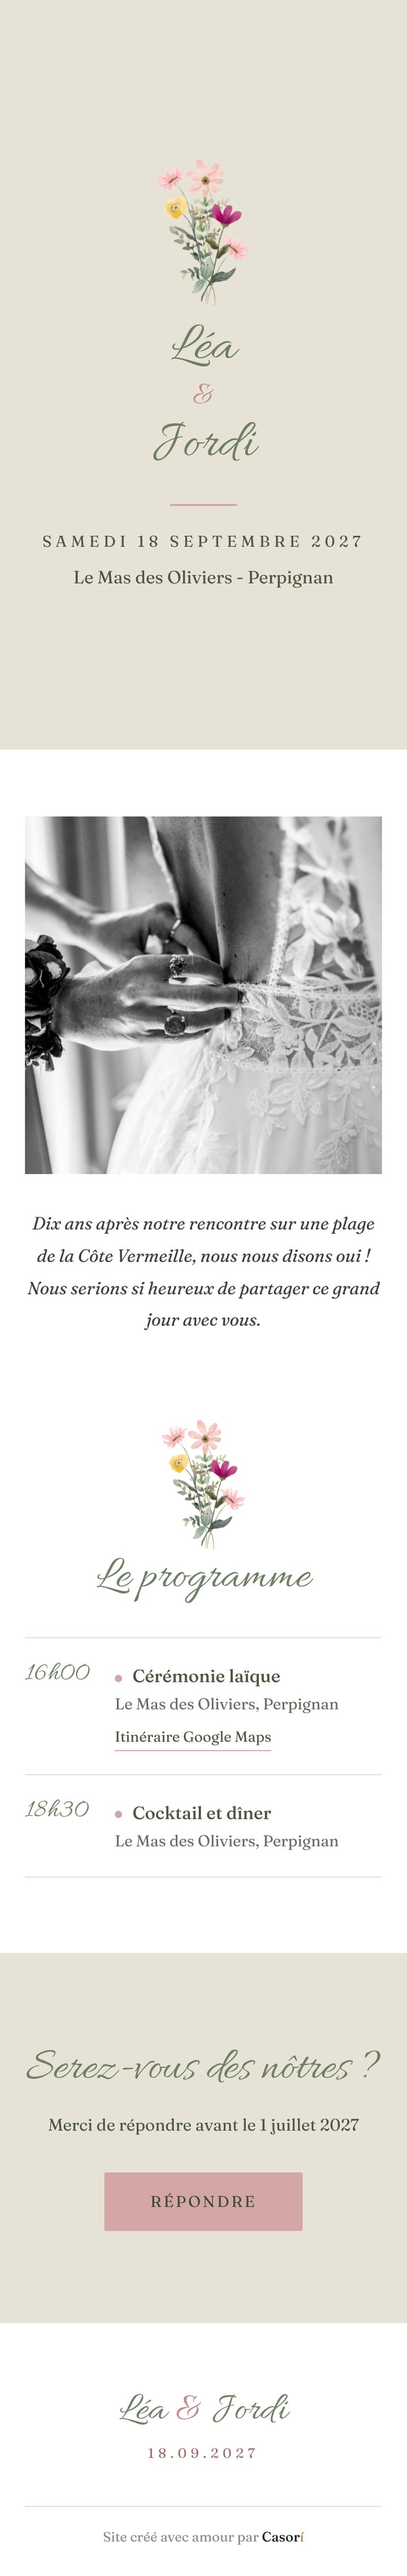
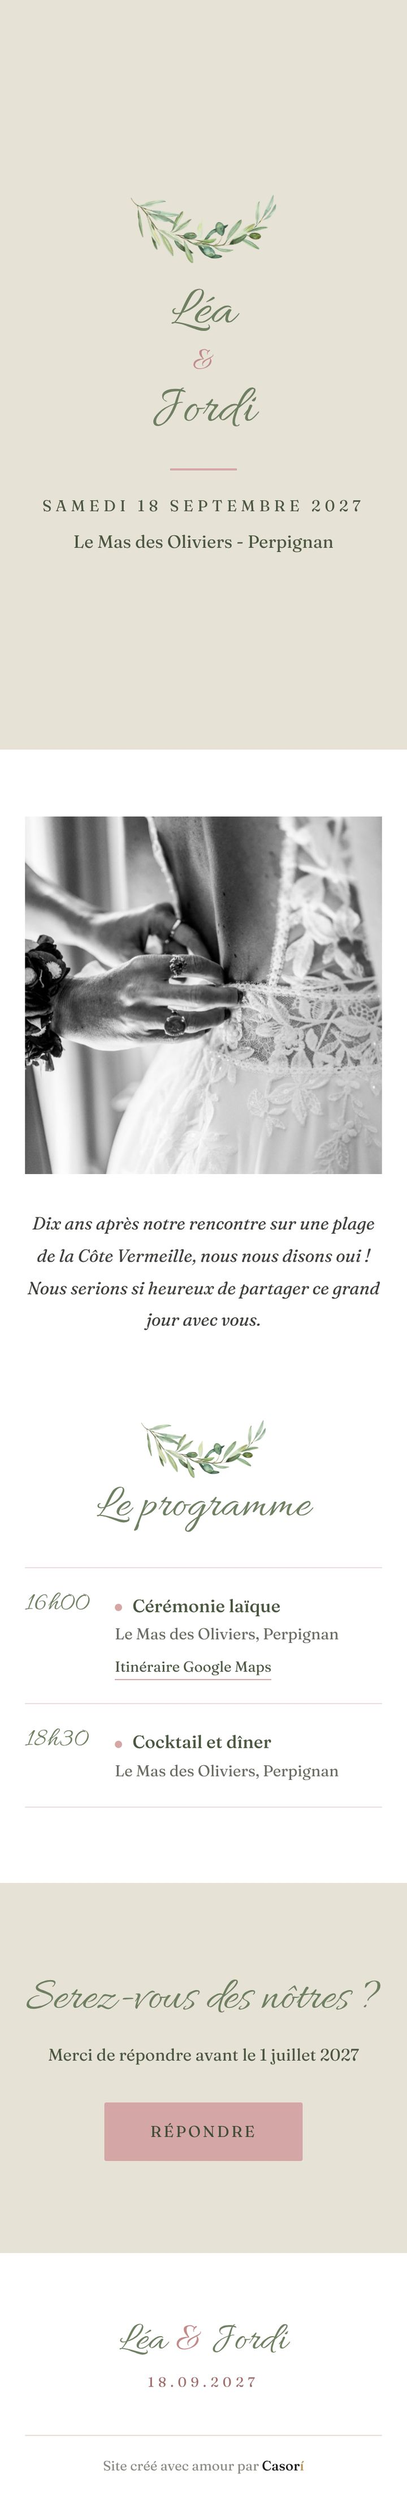
Page l'Atelier : un seul téléphone qui alterne les styles, palettes en pastilles, textes revus
Claude-Session: https://claude.ai/code/session_01CGjkqTZ9trMVEQQxVMtqEj

diff --git a/site-vitrine/atelier/index.html b/site-vitrine/atelier/index.html
@@ -35,7 +35,19 @@
         <a href="creer/" class="btn">Créer notre site</a>
       </div>
       <div class="at-hero-tel">
-        <div class="theme-ecran"><div class="theme-screen"><img src="assets/atelier-sauge.jpg" alt="Aperçu d'un site créé avec l'Atelier"></div></div>
+        <div class="theme-ecran"><div class="theme-screen at-diapo" id="at-diapo">
+          <img class="visible" src="assets/atelier-terracotta.jpg" alt="Site de l'Atelier, palette Terracotta et sable, motif bouquet" data-nom="Terracotta &amp; sable">
+          <img src="assets/atelier-sauge.jpg" alt="Site de l'Atelier, palette Sauge et rose ancien, motif olivier" data-nom="Sauge &amp; rose ancien" loading="lazy">
+          <img src="assets/atelier-mediterranee.jpg" alt="Site de l'Atelier, palette Méditerranée et ocre, motif bougainvillier" data-nom="Méditerranée &amp; ocre" loading="lazy">
+          <img src="assets/atelier-bordeaux.jpg" alt="Site de l'Atelier, palette Bordeaux et champagne, motif olivier" data-nom="Bordeaux &amp; champagne" loading="lazy">
+        </div></div>
+        <div class="at-pastilles" id="at-pastilles">
+          <button class="actif" aria-label="Terracotta et sable" style="--c1:#F1E6D8;--c2:#9A5434"></button>
+          <button aria-label="Sauge et rose ancien" style="--c1:#E7E2D6;--c2:#6F7F62"></button>
+          <button aria-label="Méditerranée et ocre" style="--c1:#E5EAEF;--c2:#2F4F6F"></button>
+          <button aria-label="Bordeaux et champagne" style="--c1:#F3ECE3;--c2:#6E1F2F"></button>
+        </div>
+        <p class="at-diapo-nom" id="at-diapo-nom">Terracotta &amp; sable</p>
       </div>
     </section>
 
@@ -53,13 +65,14 @@
     <section class="themes-sec">
       <div class="centre">
         <p class="surtitre">Vos couleurs, votre motif</p>
-        <p class="at-sous-titre">4 palettes au choix, ou vos propres couleurs. Tout le site s'accorde automatiquement.</p>
+        <p class="at-sous-titre">4 palettes au choix ou vos propres couleurs, 3 motifs au choix ou votre propre motif. Tout le site s'accorde automatiquement.</p>
       </div>
-      <div class="themes-grille at-styles">
-        <div class="theme"><div class="theme-ecran" tabindex="0"><div class="theme-screen"><img src="assets/atelier-sauge.jpg" alt="Palette Sauge et rose ancien"></div></div><p class="theme-nom">Sauge &amp; rose ancien</p></div>
-        <div class="theme"><div class="theme-ecran" tabindex="0"><div class="theme-screen"><img src="assets/atelier-terracotta.jpg" alt="Palette Terracotta et sable"></div></div><p class="theme-nom">Terracotta &amp; sable</p></div>
-        <div class="theme"><div class="theme-ecran" tabindex="0"><div class="theme-screen"><img src="assets/atelier-mediterranee.jpg" alt="Palette Méditerranée et ocre"></div></div><p class="theme-nom">Méditerranée &amp; ocre</p></div>
-        <div class="theme"><div class="theme-ecran" tabindex="0"><div class="theme-screen"><img src="assets/atelier-bordeaux.jpg" alt="Palette Bordeaux et champagne"></div></div><p class="theme-nom">Bordeaux &amp; champagne</p></div>
+      <div class="at-palettes">
+        <div><span class="at-rond" style="--c1:#E7E2D6;--c2:#6F7F62;--c3:#D4A6A6"></span>Sauge &amp; rose ancien</div>
+        <div><span class="at-rond" style="--c1:#F1E6D8;--c2:#9A5434;--c3:#D9A27E"></span>Terracotta &amp; sable</div>
+        <div><span class="at-rond" style="--c1:#E5EAEF;--c2:#2F4F6F;--c3:#D9A441"></span>Méditerranée &amp; ocre</div>
+        <div><span class="at-rond" style="--c1:#F3ECE3;--c2:#6E1F2F;--c3:#C9A97A"></span>Bordeaux &amp; champagne</div>
+        <div class="at-vos-couleurs"><span class="at-rond arc"></span>Vos propres couleurs</div>
       </div>
       <div class="at-motifs">
         <div><img src="modele/assets/motif-brin.webp" alt=""><span>Bouquet</span></div>
@@ -78,8 +91,8 @@
           <li>Votre photo et votre petit mot</li>
           <li>Le programme de la journée, jusqu'à 5 moments, avec les itinéraires</li>
           <li>Les réponses de vos invités via votre formulaire Google (modèle fourni)</li>
-          <li>4 palettes ou vos propres couleurs, 3 motifs</li>
-          <li>Une adresse à vos prénoms : mariages.casori.fr/vos-prenoms</li>
+          <li>4 palettes au choix ou vos propres couleurs, 3 motifs au choix ou votre propre motif (+10€)</li>
+          <li>Une adresse à vos prénoms : mariages.casori.fr/prenom-prenom</li>
           <li>En ligne jusqu'à 1 an après votre mariage</li>
           <li>Invisible sur Google : seuls vos invités le trouvent</li>
         </ul>
@@ -105,8 +118,8 @@
       <img src="assets/ingrid.jpg" alt="Ingrid Andriessens sur le stand Casorí">
       <div>
         <p class="surtitre">Derrière l'Atelier</p>
-        <p>Je m'appelle Ingrid. Je dessine chaque modèle de l'Atelier à Perpignan, et je vérifie personnellement chaque site avant sa mise en ligne.</p>
-        <p>Une question ? Écrivez-moi : je vous réponds avec plaisir.</p>
+        <p>Je m'appelle <b>Ingrid</b>, et je suis derrière Casorí, à Perpignan. Vous créez votre site en toute autonomie, mais <b>chaque site passe entre mes mains</b> : je le relis et le vérifie personnellement avant sa mise en ligne.</p>
+        <p>Une question ? <b>Écrivez-moi</b>, je vous réponds avec plaisir.</p>
         <a href="../contact.html" class="btn-ligne">Me contacter</a>
       </div>
     </section>
@@ -158,5 +171,6 @@
       <span>Photographies © <a href="https://nicolas-casas.fr/" target="_blank" rel="noopener noreferrer">Nicolas Casas</a></span>
     </div>
   </footer>
+  <script src="atelier.js"></script>
 </body>
 </html>

diff --git a/site-vitrine/atelier/atelier.css b/site-vitrine/atelier/atelier.css
@@ -14,14 +14,28 @@
 .at-prix-note { font-size: 13px; color: var(--gris-clair); }
 .at-hero-tel { display: flex; justify-content: center; }
 .at-hero-tel .theme-ecran { max-width: 250px; }
-/* le téléphone de l'en-tête défile tout seul, en boucle */
-.at-hero-tel .theme-screen img { animation: at-defile 26s ease-in-out 1.5s infinite alternate; }
-@keyframes at-defile { to { transform: translateY(calc(-100% + 100cqh)); } }
+/* le téléphone de l'en-tête : les 4 styles en fondu, chacun défile doucement */
+.at-hero-tel { flex-direction: column; align-items: center; }
+.at-diapo img { opacity: 0; transition: opacity 0.9s ease; }
+.at-diapo img.visible { opacity: 1; animation: at-defile 6.5s ease-in-out 0.6s forwards; }
+@keyframes at-defile { to { transform: translateY(calc(-45% + 100cqh)); } }
+.at-pastilles { display: flex; gap: 10px; margin-top: 18px; }
+.at-pastilles button {
+  width: 22px; height: 22px; border-radius: 50%; cursor: pointer; padding: 0;
+  border: 2px solid #fff; box-shadow: 0 0 0 1px var(--bordure);
+  background: linear-gradient(135deg, var(--c1) 50%, var(--c2) 50%);
+}
+.at-pastilles button.actif { box-shadow: 0 0 0 2px var(--or); }
+.at-diapo-nom { margin: 8px 0 0; font-family: var(--serif); font-size: 14px; color: var(--gris-texte); }
 
 .at-etapes { grid-template-columns: repeat(3, 1fr); max-width: 760px; margin-left: auto; margin-right: auto; }
 
 .at-sous-titre { font-size: 14px; color: var(--gris-texte); max-width: 440px; margin: 0 auto; }
-.at-styles { grid-template-columns: repeat(4, 1fr); max-width: 920px; }
+.at-palettes { display: flex; flex-wrap: wrap; justify-content: center; gap: 12px; max-width: 760px; margin: 28px auto 0; }
+.at-palettes > div { display: flex; align-items: center; gap: 10px; background: #fff; border: 1px solid var(--bordure); border-radius: 99px; padding: 8px 16px 8px 8px; font-size: 13px; }
+.at-rond { width: 30px; height: 30px; border-radius: 50%; flex: none; background: conic-gradient(var(--c2) 0 50%, var(--c3) 0 75%, var(--c1) 0); box-shadow: inset 0 0 0 1px var(--bordure); }
+.at-rond.arc { background: conic-gradient(#C0392B, #E0A458, #6F7F62, #2F4F6F, #8E5BB5, #C0392B); }
+.at-vos-couleurs { border-style: dashed !important; }
 
 .at-motifs {
   display: grid;
@@ -71,11 +85,13 @@
   max-width: 760px;
   margin: 40px auto;
   padding: 32px;
-  background: var(--creme-fonce);
+  background: #F4EADB;
+  border: 1px solid #E6D3B5;
   border-radius: 14px;
 }
 .at-derriere img { width: 100%; aspect-ratio: 1; object-fit: cover; border-radius: 50%; }
-.at-derriere p { margin: 0 0 12px; color: var(--gris-texte); }
+.at-derriere p { margin: 0 0 12px; color: var(--encre); }
+.at-derriere b { font-weight: 600; }
 .at-derriere .surtitre { margin-bottom: 10px; }
 
 .at-faq { max-width: 720px; margin: 0 auto; padding: 32px 0; }
@@ -95,7 +111,6 @@
   .at-intro { margin-left: auto; margin-right: auto; }
   .at-prix { justify-content: center; }
   .at-hero-tel .theme-ecran { max-width: 210px; }
-  .at-styles { grid-template-columns: repeat(2, 1fr); max-width: 460px; }
   .at-inclus { grid-template-columns: 1fr; }
   .at-derriere { grid-template-columns: 1fr; text-align: center; justify-items: center; }
   .at-derriere img { max-width: 180px; }
@@ -105,5 +120,5 @@
   .at-motifs { grid-template-columns: repeat(2, 1fr); max-width: 320px; }
 }
 @media (prefers-reduced-motion: reduce) {
-  .at-hero-tel .theme-screen img { animation: none; }
+  .at-diapo img.visible { animation: none; }
 }

diff --git a/site-vitrine/atelier/atelier.js b/site-vitrine/atelier/atelier.js
@@ -1,0 +1,17 @@
+/* Page de l'Atelier : le téléphone de l'en-tête alterne les 4 styles (et on peut choisir avec les pastilles) */
+(function () {
+  const imgs = [...document.querySelectorAll('#at-diapo img')];
+  const pastilles = [...document.querySelectorAll('#at-pastilles button')];
+  const nom = document.getElementById('at-diapo-nom');
+  if (!imgs.length) return;
+  let i = 0, minuterie;
+  function montrer(n) {
+    i = (n + imgs.length) % imgs.length;
+    imgs.forEach((im, k) => { im.classList.remove('visible'); if (k === i) { void im.offsetWidth; im.classList.add('visible'); } });
+    pastilles.forEach((p, k) => p.classList.toggle('actif', k === i));
+    nom.textContent = imgs[i].dataset.nom;
+  }
+  function lancer() { clearInterval(minuterie); minuterie = setInterval(() => montrer(i + 1), 7000); }
+  pastilles.forEach((p, k) => p.addEventListener('click', () => { montrer(k); lancer(); }));
+  if (!matchMedia('(prefers-reduced-motion: reduce)').matches) lancer();
+})();
